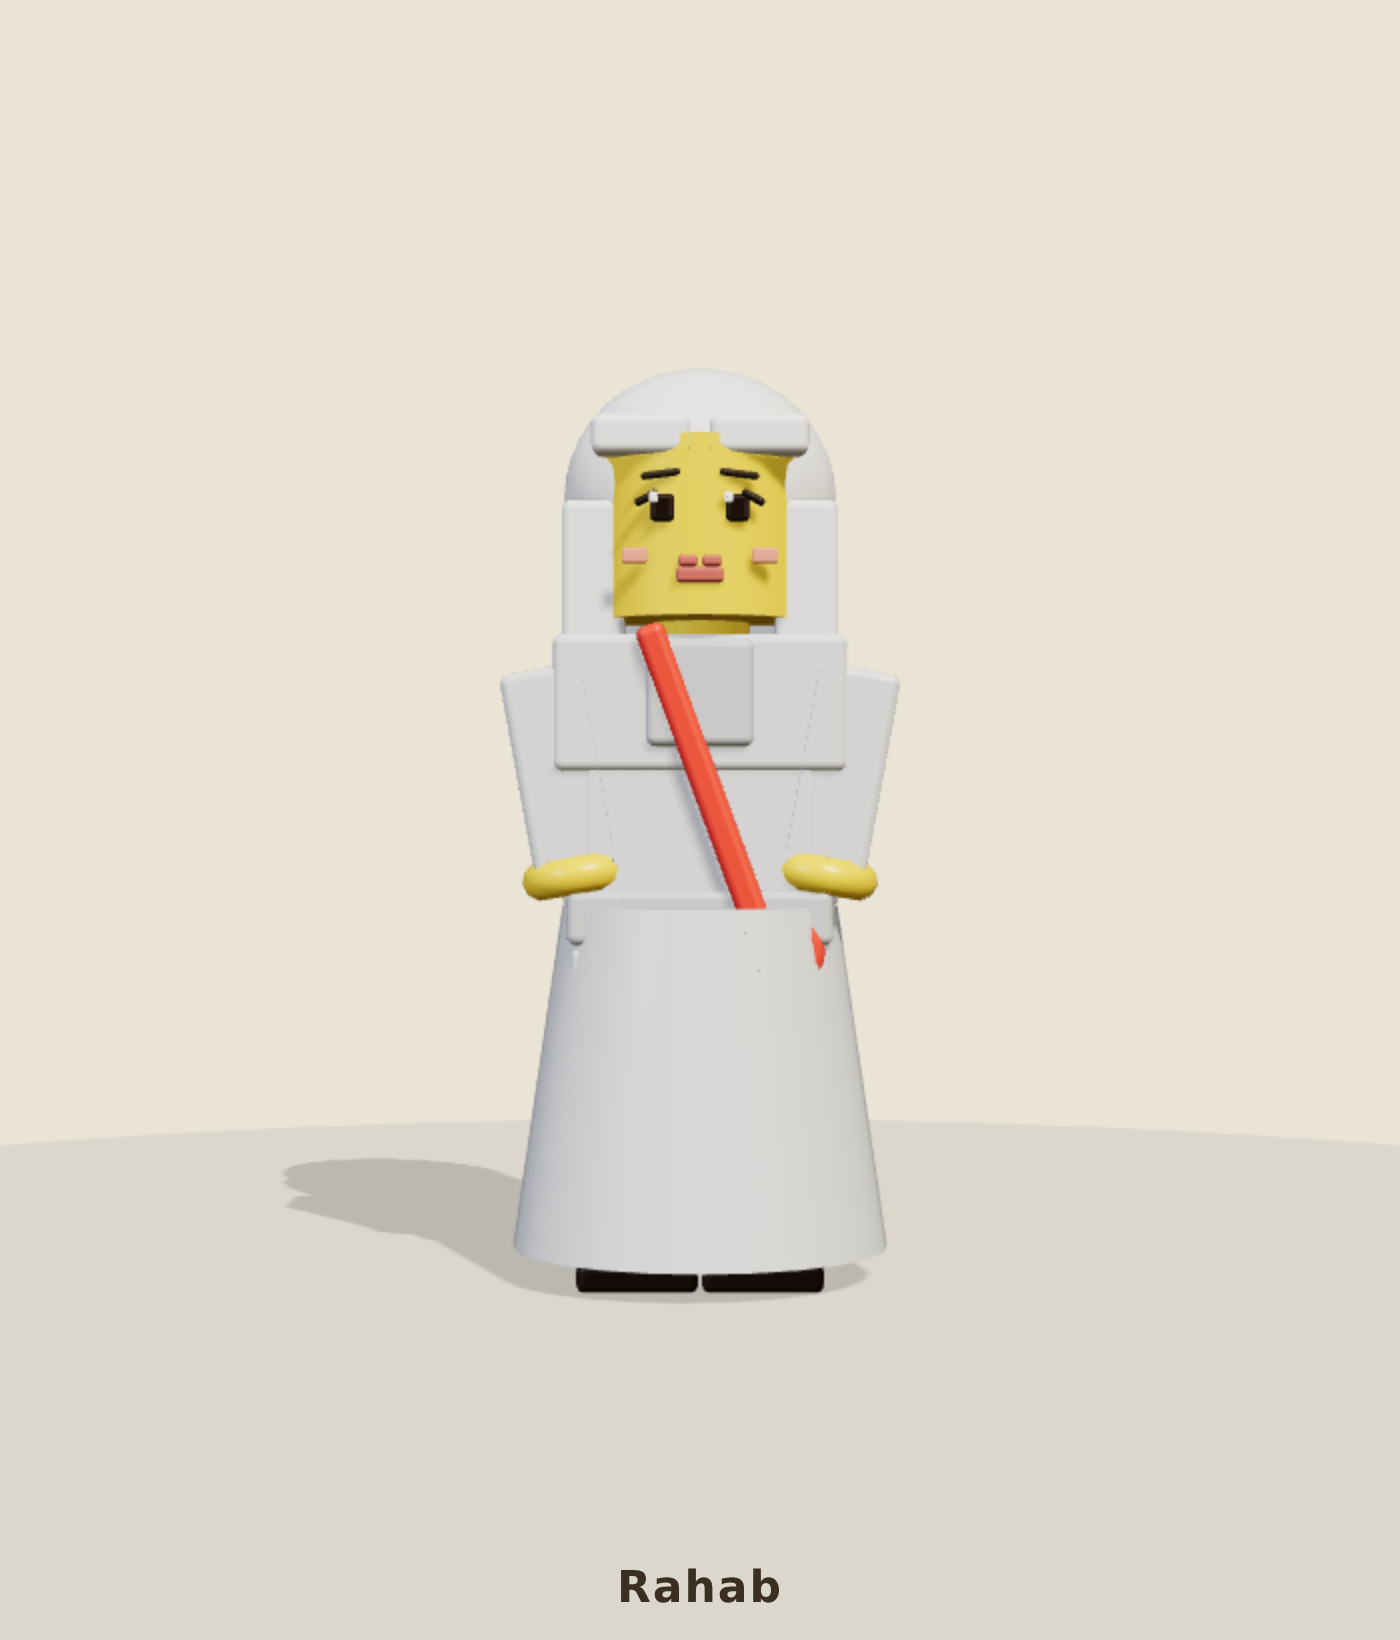
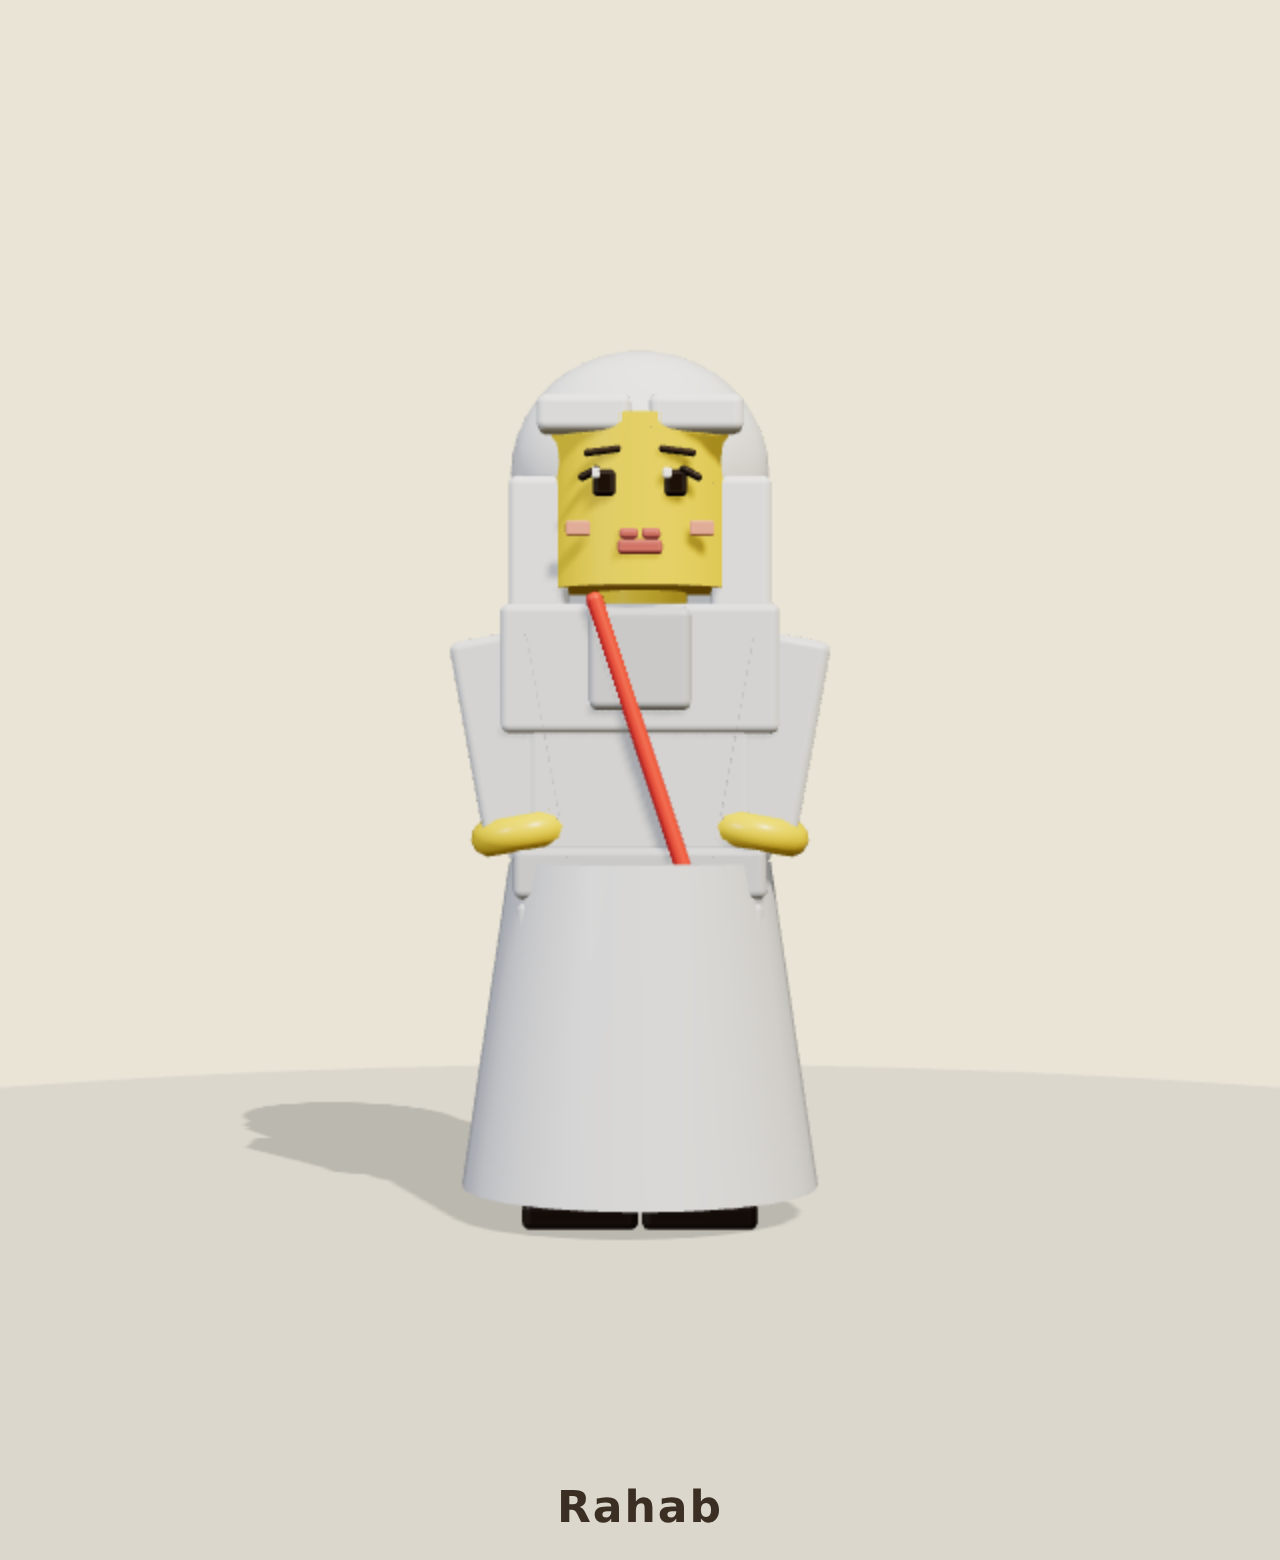
Rahab: afinar el cordón carmesí (más fino, cruzado hombro-cadera)
Cierre del set de muñecos. Cordón de Rahab más discreto tras el feedback.

Claude-Session: https://claude.ai/code/session_01Fgry2hnwitkQ2wKLYbkPgZ

diff --git a/mundo-ladrillos/src/characters/MinifigureFactory.ts b/mundo-ladrillos/src/characters/MinifigureFactory.ts
@@ -363,13 +363,13 @@ export class Minifigure {
       this.root.add(this.box(0.14, 0.62, 0.06, s.tie, 0, 2.82, 0.49));  // corbata
     }
 
-    // Cordón/faja en banda diagonal (cordón rojo carmesí de Rahab)
+    // Cordón rojo carmesí de Rahab: fino, cruzado del hombro a la cadera.
     if (s.cord !== undefined) {
-      const band = this.box(0.15, 1.9, 0.2, s.cord, 0.06, 2.5, 0.42);
-      band.rotation.z = 0.35;
+      const band = this.box(0.09, 1.95, 0.12, s.cord, 0.05, 2.48, 0.45);
+      band.rotation.z = 0.32;
       this.root.add(band);
-      const loop = new THREE.TorusGeometry(0.15, 0.05, 8, 16);
-      this.root.add(this.mesh(loop, s.cord, 0.44, 1.72, 0.42)); // rollo colgando en la cadera
+      const loop = new THREE.TorusGeometry(0.12, 0.04, 8, 16);
+      this.root.add(this.mesh(loop, s.cord, 0.42, 1.66, 0.45)); // pequeño rollo en la cadera
     }
 
     // Falda / vestido acampanado (rasgo fem): tronco de cono sobre la cadera.
